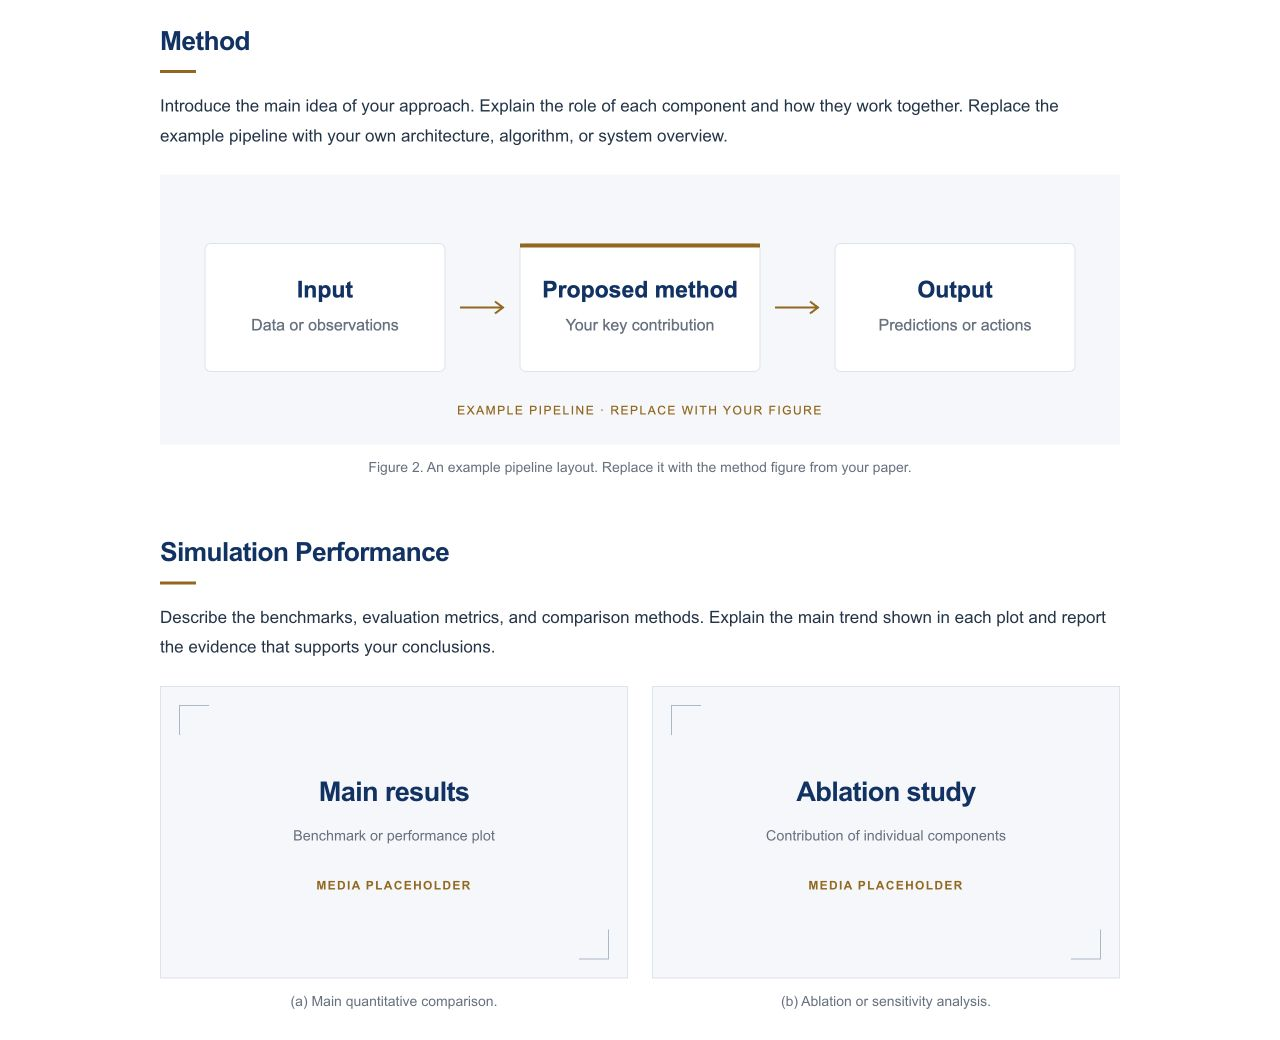
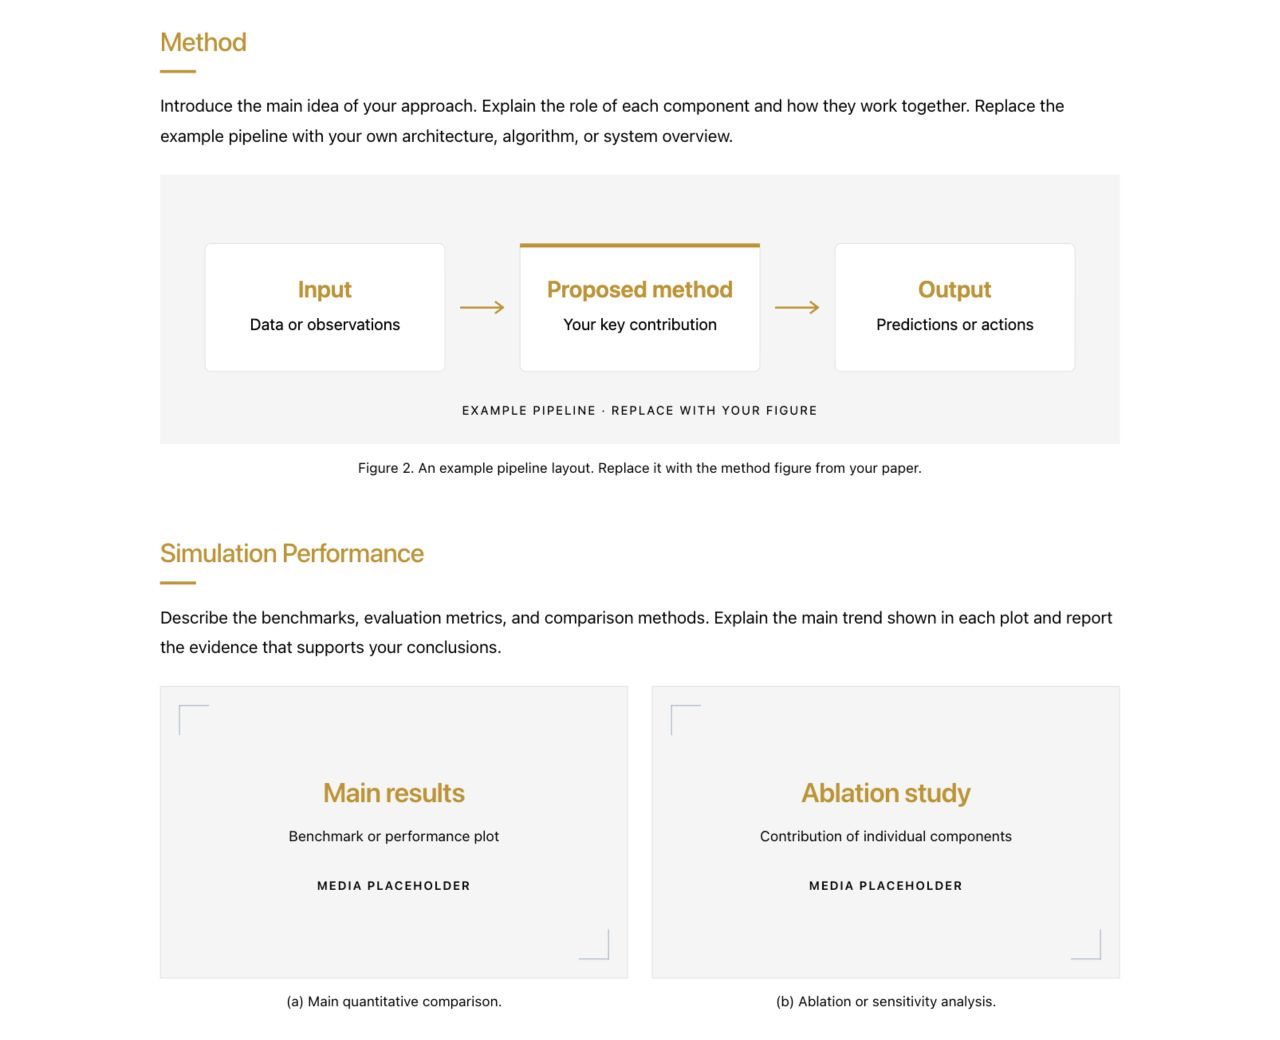
Match personal site typography with gold headings and black text

diff --git a/styles.css b/styles.css
@@ -1,21 +1,19 @@
-/* HKUST official web colors. Source: docs/ASSETS.md. */
+/* Reference gold and personal-site typography. Sources: docs/ASSETS.md. */
 :root {
-  --navy: #003366;
-  --gold: #996600;
-  --text: #203449;
-  --muted: #637080;
-  --line: #dce3eb;
-  --surface: #f5f7fa;
-  --gold-surface: #faf6ed;
+  --gold: #c59114;
+  --text: #000000;
+  --line: #e5e5e7;
+  --surface: #f5f5f5;
+  --gold-surface: #fbf7ee;
   --max-width: 960px;
-  --font: Arial, "Helvetica Neue", "Noto Sans", "PingFang SC", "Microsoft YaHei", sans-serif;
+  --font: -apple-system, BlinkMacSystemFont, "Segoe UI", sans-serif;
 }
 *, *::before, *::after { box-sizing: border-box; }
 html { scroll-behavior: smooth; scroll-padding-top: 24px; }
 body { margin: 0; background: #fff; color: var(--text); font: 17px/1.75 var(--font); -webkit-font-smoothing: antialiased; }
-::selection { background: #e5d4ad; color: var(--navy); }
-a { color: var(--navy); text-underline-offset: 4px; }
-a:hover { color: var(--gold); }
+::selection { background: #e5d4ad; color: var(--text); }
+a { color: var(--text); text-underline-offset: 4px; }
+a:hover { color: var(--text); text-decoration: underline; }
 a, button { -webkit-tap-highlight-color: transparent; }
 :focus-visible { outline: 3px solid var(--gold); outline-offset: 5px; }
 img, video { display: block; max-width: 100%; height: auto; }
@@ -24,31 +22,31 @@ button { font: inherit; }
 .wrap { width: min(var(--max-width), calc(100% - 48px)); margin-inline: auto; }
 .skip-link { position: absolute; z-index: 10; top: 8px; left: 12px; padding: 8px 16px; background: white; transform: translateY(-180%); }
 .skip-link:focus { transform: translateY(0); }
-.hero { padding: 54px 0 30px; border-top: 4px solid var(--navy); border-bottom: 1px solid var(--line); text-align: center; }
-.venue { margin: 0 0 20px; color: var(--muted); font-size: .78rem; font-weight: 600; letter-spacing: .13em; }
-h1 { max-width: 960px; margin: 0 auto 24px; color: var(--navy); font-size: clamp(2rem, 4.1vw, 3rem); font-weight: 750; line-height: 1.17; letter-spacing: -.035em; text-wrap: balance; }
+.hero { padding: 54px 0 30px; border-top: 4px solid var(--gold); border-bottom: 1px solid var(--line); text-align: center; }
+.venue { margin: 0 0 20px; color: var(--text); font-size: .78rem; font-weight: 600; letter-spacing: .13em; }
+h1 { max-width: 960px; margin: 0 auto 24px; color: var(--gold); font-size: clamp(2rem, 4.1vw, 3rem); font-weight: 600; line-height: 1.17; letter-spacing: -.035em; text-wrap: balance; }
 h1 span { display: block; }
 .title-accent { color: var(--gold); }
-.authors { margin: 0; font-size: 1rem; line-height: 1.9; color: var(--navy); }
+.authors { margin: 0; font-size: 1rem; line-height: 1.9; color: var(--text); }
 .author { display: inline-block; font-weight: 600; }
 .author a { text-decoration: none; }
 .author a:hover { text-decoration: underline; }
 sup { font-size: .68em; line-height: 0; vertical-align: super; }
 .author sup { margin-left: 2px; }
-.author-note { margin: 6px 0 0; font-size: .875rem; color: var(--muted); }
+.author-note { margin: 6px 0 0; font-size: .875rem; color: var(--text); }
 .institution-logos { display: flex; justify-content: center; align-items: center; gap: 48px; margin: 30px auto 0; }
 .institution { display: flex; flex-direction: column; align-items: center; justify-content: flex-end; gap: 12px; text-decoration: none; }
 .institution img { width: var(--logo-width); max-width: 100%; height: 49px; object-fit: contain; }
-.institution > span { font-size: .8rem; color: var(--muted); }
+.institution > span { font-size: .8rem; color: var(--text); }
 .resource-links { display: flex; justify-content: center; flex-wrap: wrap; gap: 12px; padding: 24px 0; }
-.resource-link { display: inline-flex; align-items: center; gap: 8px; min-height: 40px; padding: 5px 17px; border: 1px solid var(--line); border-radius: 24px; background: var(--surface); color: var(--navy); font-size: .875rem; font-weight: 500; text-decoration: none; transition: border-color .15s, background .15s; }
-.resource-link[href]:hover { border-color: var(--gold); background: var(--gold-surface); color: var(--navy); }
+.resource-link { display: inline-flex; align-items: center; gap: 8px; min-height: 40px; padding: 5px 17px; border: 1px solid var(--line); border-radius: 24px; background: var(--surface); color: var(--text); font-size: .875rem; font-weight: 500; text-decoration: none; transition: border-color .15s, background .15s; }
+.resource-link[href]:hover { border-color: var(--gold); background: var(--gold-surface); color: var(--text); }
 .resource-link svg, .bib-actions svg { width: 17px; height: 17px; flex-shrink: 0; }
-.resource-link.unavailable { color: var(--muted); }
+.resource-link.unavailable { color: var(--text); }
 .resource-status { border-left: 1px solid var(--line); padding-left: 8px; font-size: .75rem; }
 figure { min-width: 0; margin: 0; }
 figure > img { width: 100%; }
-figcaption { margin-top: 12px; font-size: .875rem; line-height: 1.6; color: var(--muted); text-align: center; }
+figcaption { margin-top: 12px; font-size: .875rem; line-height: 1.6; color: var(--text); text-align: center; }
 .spotlight { margin: 0 0 58px; }
 .media-placeholder { position: relative; display: flex; flex-direction: column; justify-content: center; align-items: center; gap: 7px; padding: 32px 22px; border: 1px solid var(--line); background: var(--surface); text-align: center; }
 .media-placeholder::before, .media-placeholder::after { content: ''; position: absolute; width: 30px; height: 30px; border-color: #aab8c8; border-style: solid; }
@@ -57,36 +55,36 @@ figcaption { margin-top: 12px; font-size: .875rem; line-height: 1.6; color: var(
 .aspect-video { aspect-ratio: 16/9; }
 .aspect-wide { aspect-ratio: 3/1; }
 .aspect-plot { aspect-ratio: 8/5; }
-.placeholder-label { color: var(--navy); font-size: clamp(1.25rem, 2.5vw, 1.7rem); font-weight: 600; letter-spacing: -.025em; }
-.placeholder-hint { color: var(--muted); font-size: .9rem; }
-.placeholder-tag { margin-top: 20px; color: var(--gold); font-size: .75rem; letter-spacing: .11em; font-weight: 600; }
+.placeholder-label { color: var(--gold); font-size: clamp(1.25rem, 2.5vw, 1.7rem); font-weight: 600; letter-spacing: -.025em; }
+.placeholder-hint { color: var(--text); font-size: .9rem; }
+.placeholder-tag { margin-top: 20px; color: var(--text); font-size: .75rem; letter-spacing: .11em; font-weight: 600; }
 .content-section { margin-block: 0 56px; }
-h2 { margin: 0 0 18px; color: var(--navy); font-size: 1.65rem; letter-spacing: -.025em; font-weight: 700; line-height: 1.3; }
+h2 { margin: 0 0 18px; color: var(--gold); font-size: 1.65rem; letter-spacing: -.025em; font-weight: 500; line-height: 1.3; }
 h2::after { content: ''; display: block; width: 36px; height: 3px; margin-top: 12px; background: var(--gold); }
 p { margin: 0 0 20px; }
 .abstract { text-align: justify; }
 .media-group { display: grid; gap: 24px; margin-top: 24px; }
 .two-columns { grid-template-columns: repeat(2, minmax(0, 1fr)); }
 .experiment + .experiment { margin-top: 36px; }
-h3 { margin: 24px 0 12px; color: var(--navy); font-size: 1.125rem; line-height: 1.5; }
+h3 { margin: 24px 0 12px; color: var(--gold); font-weight: 500; font-size: 1.125rem; line-height: 1.5; }
 .video-embed { position: relative; aspect-ratio: 16/9; background: var(--surface); }
 .video-embed iframe { width: 100%; height: 100%; position: absolute; inset: 0; border: 0; }
 video { width: 100%; background: #071d33; }
 .takeaway-list { list-style: none; margin: 0; padding: 22px 28px; border-left: 3px solid var(--gold); background: var(--gold-surface); }
 .takeaway-list li { position: relative; padding-left: 18px; }
-.takeaway-list li::before { content: '•'; position: absolute; left: 0; color: var(--gold); }
+.takeaway-list li::before { content: '•'; position: absolute; left: 0; color: var(--text); }
 .takeaway-list li + li { margin-top: 12px; }
 .bib-header { display: flex; align-items: flex-start; justify-content: space-between; gap: 16px; }
 .bib-actions { display: flex; align-items: center; gap: 18px; font-size: .875rem; }
-.bib-actions button { display: inline-flex; gap: 8px; align-items: center; border: 1px solid var(--line); background: white; color: var(--navy); border-radius: 6px; padding: 7px 12px; cursor: pointer; }
+.bib-actions button { display: inline-flex; gap: 8px; align-items: center; border: 1px solid var(--line); background: white; color: var(--text); border-radius: 6px; padding: 7px 12px; cursor: pointer; }
 .bib-actions button:hover { border-color: var(--gold); }
 .bib { margin: 0; padding: 24px; overflow-x: auto; background: var(--surface); border: 1px solid var(--line); border-radius: 6px; font: .875rem/1.8 ui-monospace, SFMono-Regular, Consolas, monospace; tab-size: 2; }
-.copy-status { min-height: 24px; margin: 6px 0 -30px; color: var(--muted); font-size: .875rem; }
-.footer { padding: 28px 0 32px; border-top: 1px solid var(--line); color: var(--muted); text-align: center; font-size: .8rem; }
+.copy-status { min-height: 24px; margin: 6px 0 -30px; color: var(--text); font-size: .875rem; }
+.footer { padding: 28px 0 32px; border-top: 1px solid var(--line); color: var(--text); text-align: center; font-size: .8rem; }
 .footer p { margin: 0; }
 .footer p + p { margin-top: 5px; }
 .footer a { color: inherit; }
-.footer a:hover { color: var(--navy); }
+.footer a:hover { color: var(--text); }
 @media (max-width: 640px) {
   body { font-size: 16px; line-height: 1.75; }
   .wrap { width: calc(100% - 36px); }

diff --git a/index.html b/index.html
@@ -4,7 +4,7 @@
 <head>
   <meta charset="utf-8">
   <meta name="viewport" content="width=device-width, initial-scale=1">
-  <meta name="theme-color" content="#003366">
+  <meta name="theme-color" content="#c59114">
   <title>Your Paper Title Goes Here With a Descriptive Subtitle</title>
   <meta name="description" content="A concise, one-sentence summary of your research contribution.">
   <meta property="og:type" content="article">

diff --git a/docs/ASSETS.md b/docs/ASSETS.md
@@ -8,14 +8,14 @@ Retrieved / prepared on 2026-09-21.
 - Retained the centered academic header, institutional logo row, resource pills, leading video, abstract, problem, method, simulation / real-world results, takeaways, and citation structure.
 - HTML, CSS, JavaScript, and the example pipeline diagram were implemented for this template. Original paper text, figures, videos, and commercial Graphik font files are not redistributed.
 
-## HKUST colors
+## Colors and typography
 
-- Official source: [HKUST Brand Assets Unit](https://brand.hkust.edu.hk/).
-- [HKUST Brand Guidelines](https://brand.hkust.edu.hk/sites/default/files/bm_folder/HKUST_Brand_guideline.pdf), “Standard University Color Palette”, printed page 51.
-- Blue: web `#003366`, RGB 0 / 51 / 102, Pantone 295.
-- Gold: web `#996600`, RGB 153 / 102 / 0, Pantone 872.
-- The generic document favicon also uses the listed yellow `#CC9900` for small accent strokes. It is not a university emblem.
-- Light surfaces and neutral text colors are template-specific supporting colors.
+- Gold: `#C59114`, RGB 197 / 145 / 20, explicitly requested by the user to match the [reference project page](https://embodiment-adaptation.github.io/). This replaces the earlier HKUST official gold choice.
+- Page titles, section / experiment headings, and figure-placeholder headings use this gold. Other page text uses `#000000`; university logo artwork retains its original colors.
+- The font stack matches the user's personal website repository `Lgx521.github.io-main`, `assets/css/site-shell.css` (`--site-font`): `-apple-system, BlinkMacSystemFont, "Segoe UI", sans-serif`.
+- Heading weights follow `assets/css/site-pages.css`: 600 for the main title, 500 for section and experiment headings. BibTeX keeps its monospace stack.
+- The font comes from the reader's operating system; no font files or external font services are required.
+- The generic favicon retains its navy background with the updated gold accent. It is not a university emblem.
 
 ## HKUST logo
 

diff --git a/AGENTS.md b/AGENTS.md
@@ -11,7 +11,8 @@
 
 ## 已确认的视觉约定
 
-- 白色背景，海军蓝 `#003366` 与金色 `#996600`；保留参考网页的居中标题、作者、机构、资源链接和单列论文结构。
+- 白色背景，标题和强调线条采用参考页的金色 `#C59114`（RGB 197 / 145 / 20），其余页面文字使用纯黑 `#000000`；保留参考网页的居中标题、作者、机构、资源链接和单列论文结构。
+- 字体与用户个人网页 `assets/css/site-shell.css` 一致：`-apple-system, BlinkMacSystemFont, "Segoe UI", sans-serif`。标题使用个人网页的 600 / 500 字重，BibTeX 保留等宽字体。
 - HKUST 使用“校徽 + 英文全称”的版本，只去掉左侧 35 周年图案，不换成仅写 HKUST 的缩写版本。
 - SUSTech 只保留火炬和大字，右侧小字英文全称已裁掉。
 - 两个标志已按用户要求缩至之前的约 70%：桌面宽度分别为 182 px、175 px，图片框高度 49 px。保持矢量比例，不拉伸。
@@ -54,7 +55,7 @@ git push
 
 | 字段 | 用途 |
 | --- | --- |
-| `title` | 论文标题；用 `\n` 指定断行，首行金色、后续行海军蓝 |
+| `title` | 论文标题；用 `\n` 指定断行，所有行均为金色 |
 | `venue` | 会议 / 年份 / 状态；设为空字符串即可隐藏 |
 | `authors` | 作者姓名、单位编号、贡献标记、个人主页 |
 | `institutions` | 学校名称、编号、Logo 路径、链接和显示宽度 |

diff --git a/README.md b/README.md
@@ -1,6 +1,6 @@
 # Paper Website Template
 
-一个简洁的论文项目网页模板，采用 HKUST 蓝金配色，搭配 HKUST 与 SUSTech 标志。
+一个简洁的论文项目网页模板，采用金色标题、黑色正文与系统字体，搭配 HKUST 与 SUSTech 标志。
 
 ![桌面版：标题、作者、学校标志和项目视频区域](docs/previews/desktop.jpg)
 
